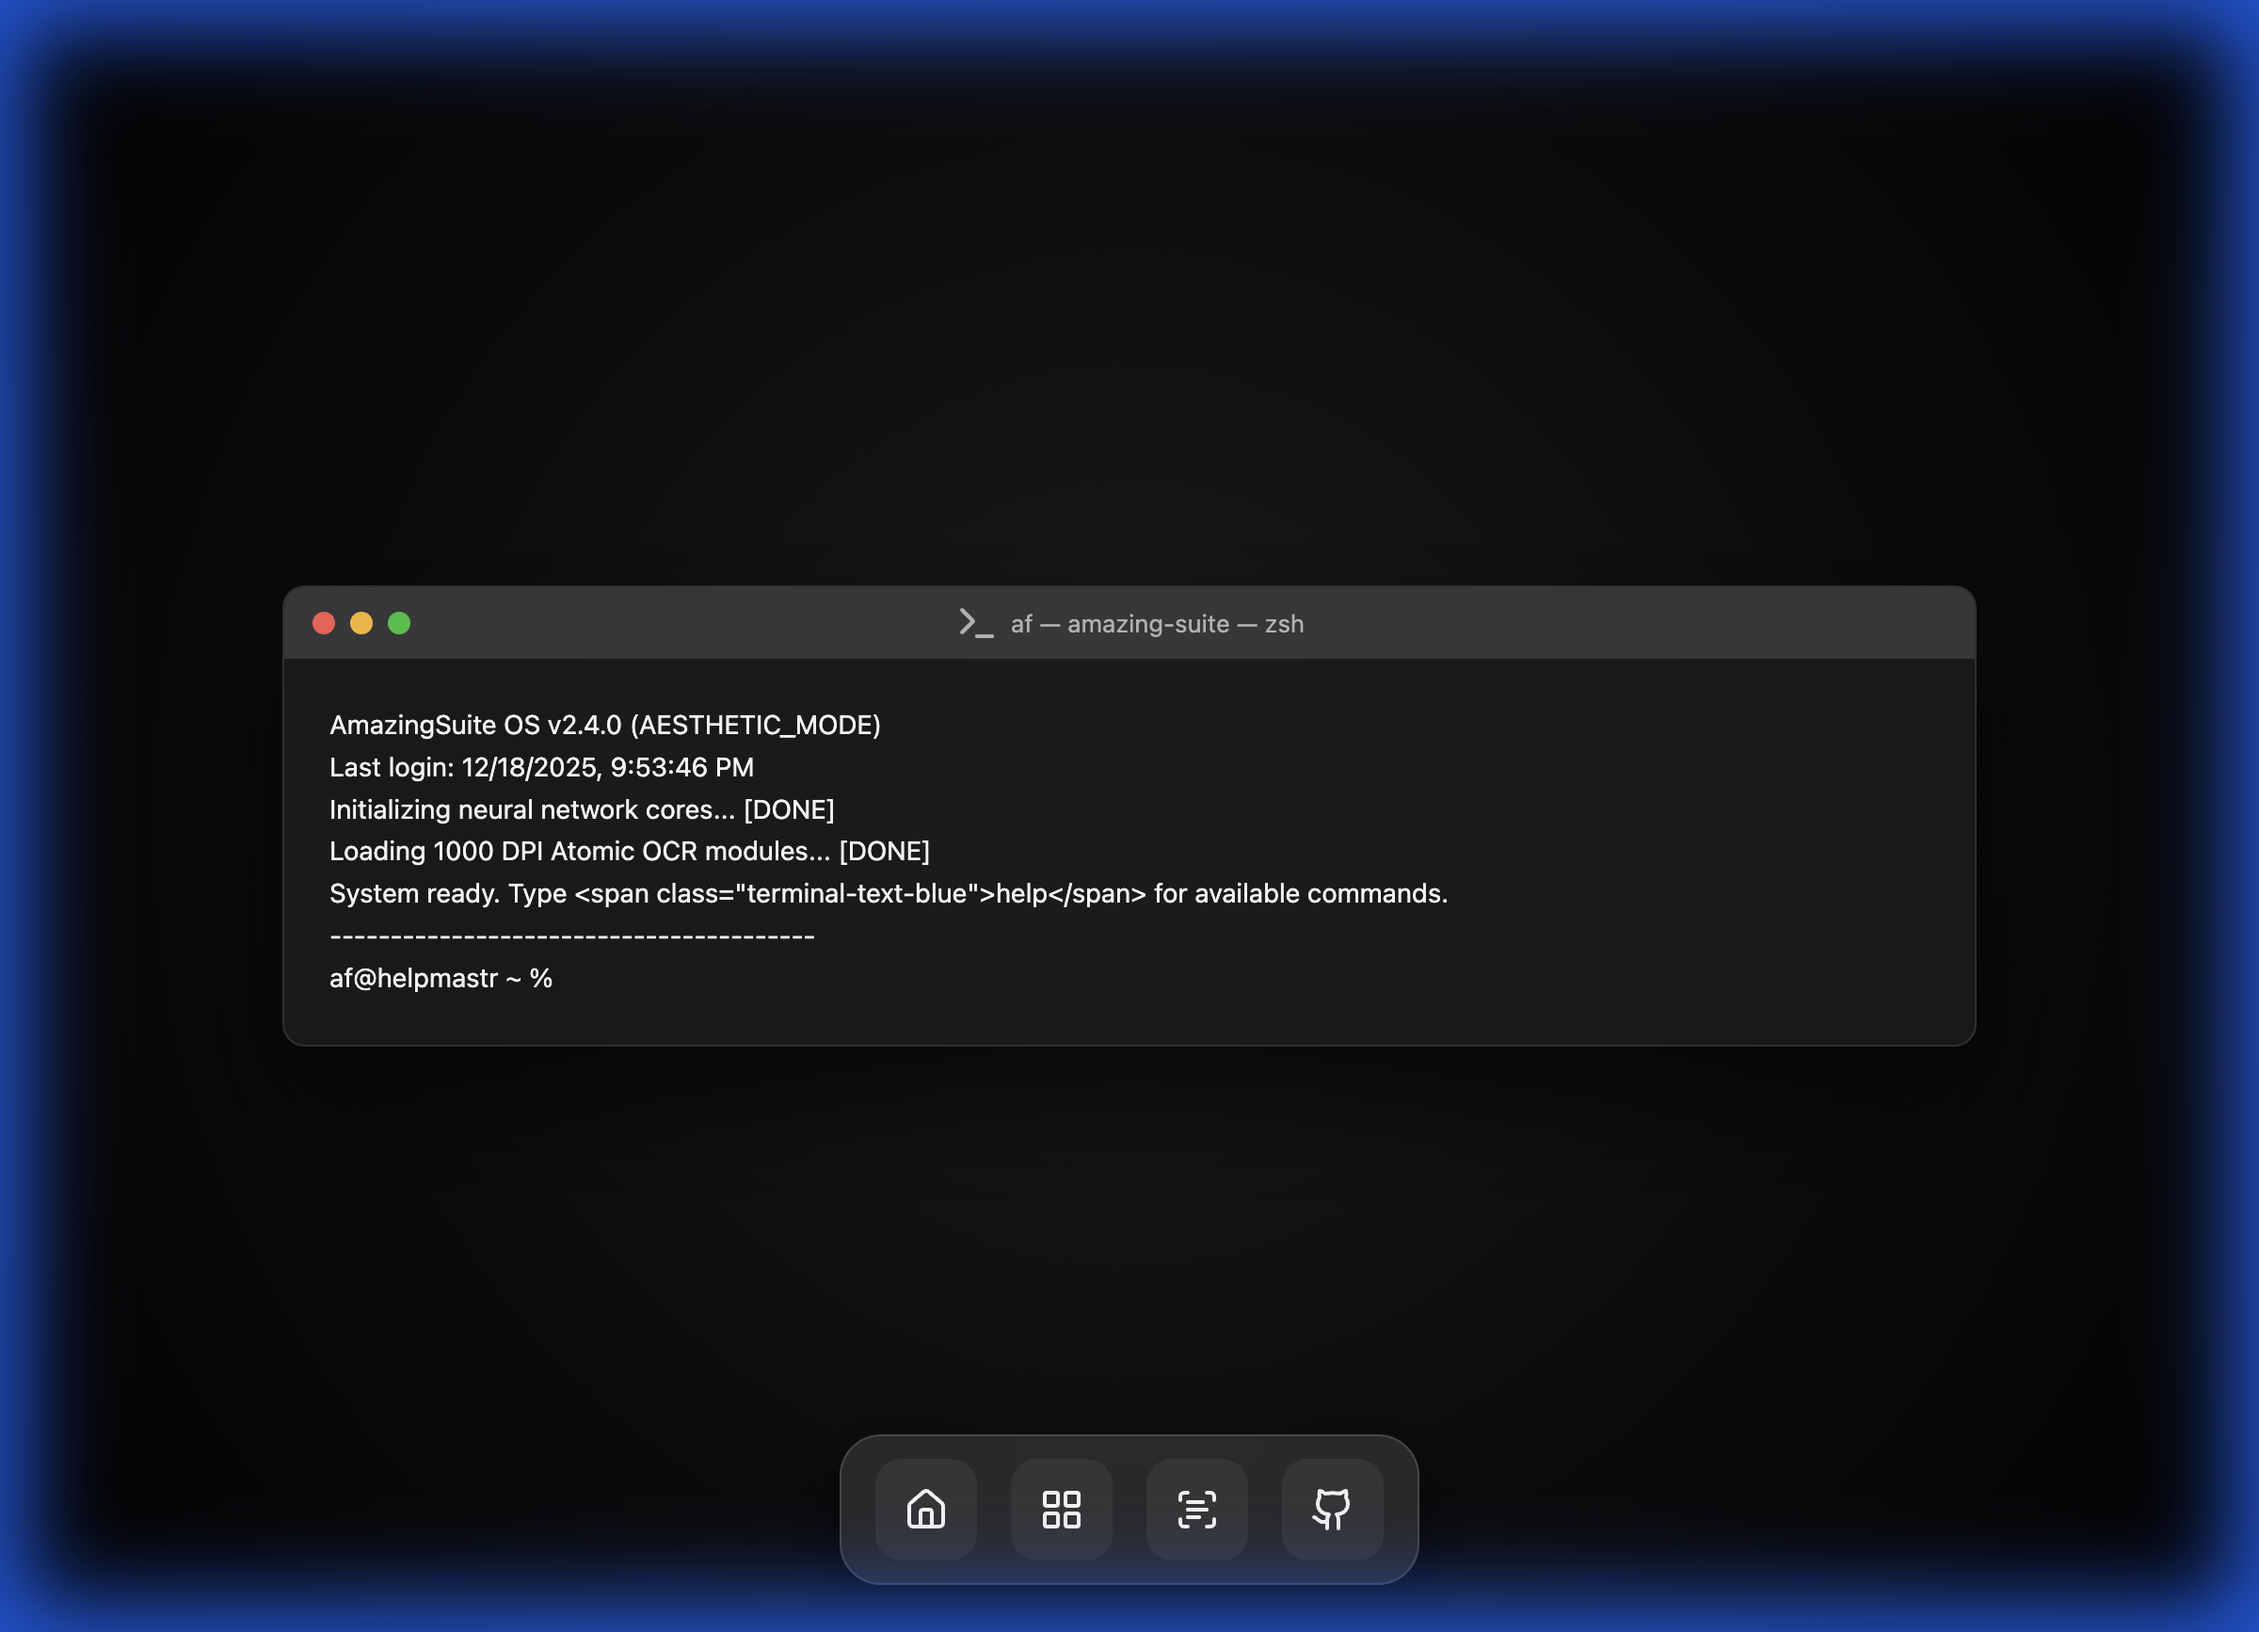
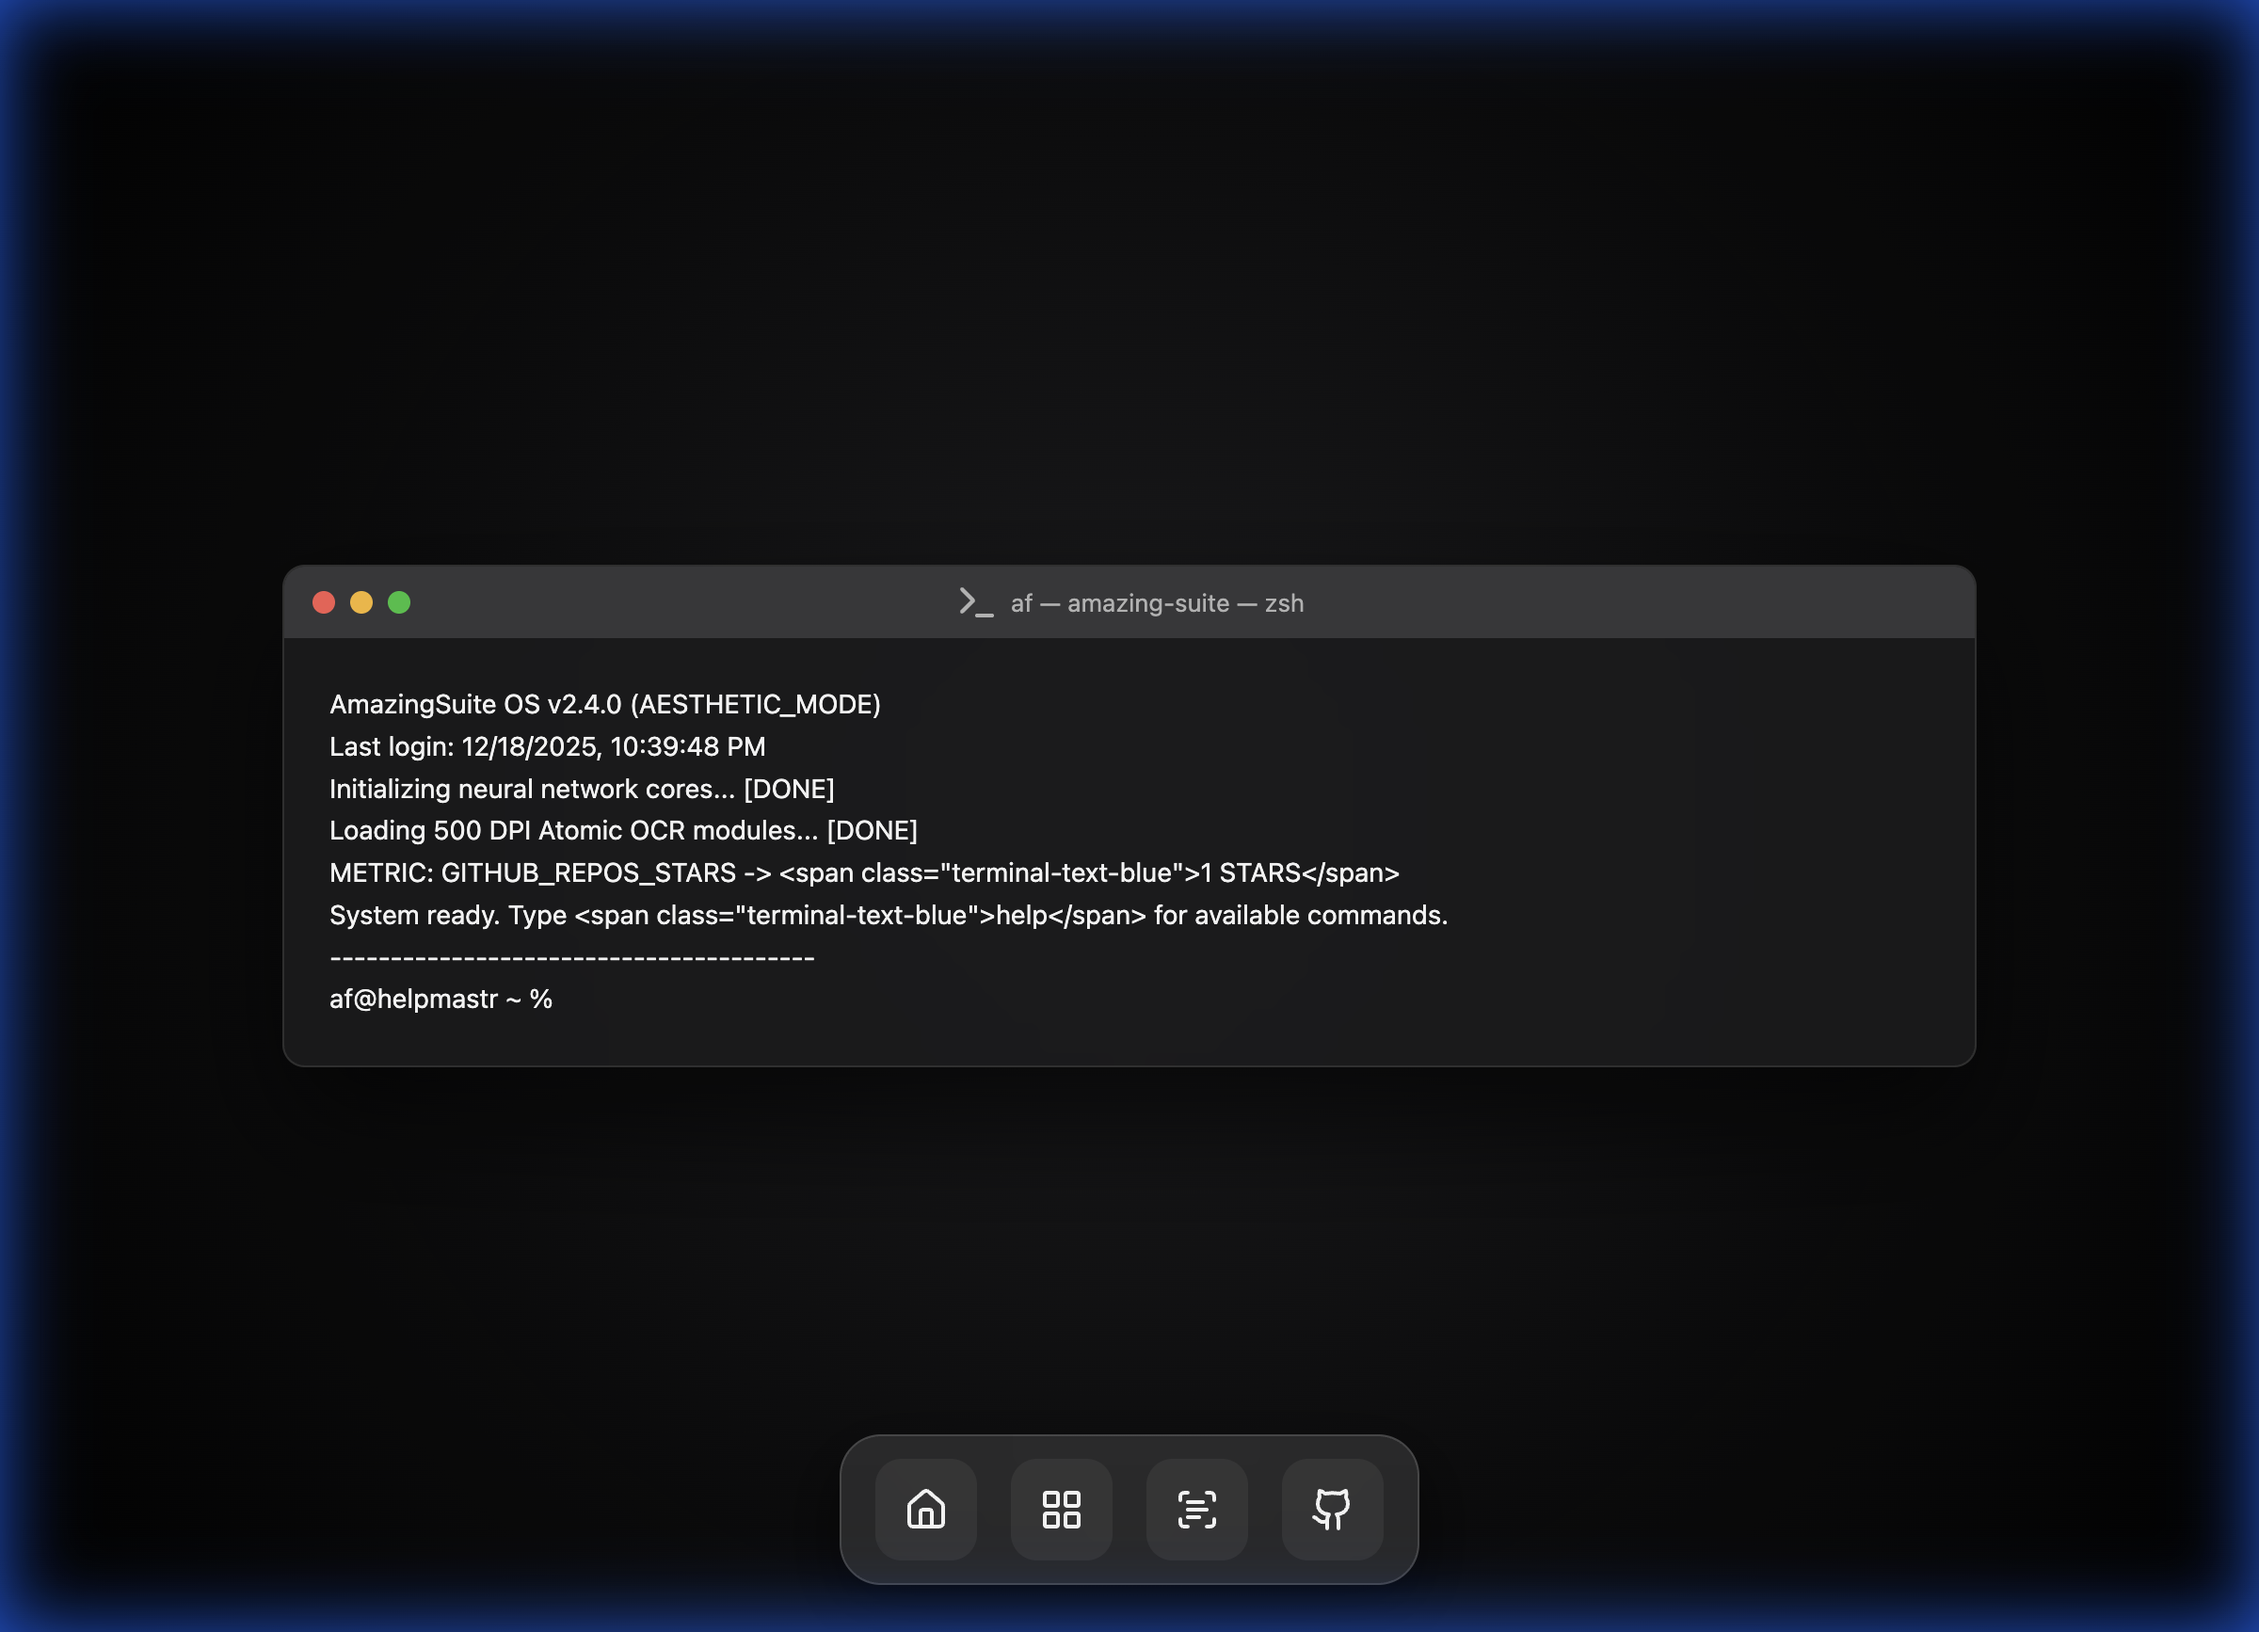
docs: complete README overhaul with fresh screenshots and feature highlights

Changed region(s): [[0.0, 0.0, 1.0, 1.0], [0.125, 0.3426, 0.875, 0.6228]]

diff --git a/README.md b/README.md
@@ -1,102 +1,98 @@
-# AmazingSuite - OCR & Converter Engine
+# ⚡ AmazingSuite - The Ultimate Terminal Productivity OS
 
-> **Terminal-Themed Productivity Suite** for high-efficiency document processing.
+> **A premium, high-performance toolkit** for OCR, Universal File Conversion, and Developer Utilities. Built with a stunning macOS terminal aesthetic and zero-latency client-side processing.
 
-![Status](https://img.shields.io/badge/Status-Active-success?style=for-the-badge) ![Version](https://img.shields.io/badge/Version-2.0.0-blue?style=for-the-badge)
-
-**AmazingSuite** is a web-based toolkit designed with a premium **hacker/terminal aesthetic**. It provides local-first tools for OCR, file conversion, and document management without needing a backend.
+![Status](https://img.shields.io/badge/Status-Active-success?style=for-the-badge) ![Version](https://img.shields.io/badge/Version-3.1.2-blue?style=for-the-badge) ![License](https://img.shields.io/badge/License-MIT-orange?style=for-the-badge)
 
 ---
 
-## 🖥 Screenshots
+## 🖥 System Preview
 
-| Command Center | Converter Hub |
+| Command Center (v2.4) | Master Hub |
 |:---:|:---:|
 | ![Index](screenshot_index.png) | ![Hub](screenshot_hub.png) |
 
-| Universal Converter | OCR Engine |
+| Universal Converter (v3.1) | Developer Terminal |
 |:---:|:---:|
-| ![Converter](screenshot_converter.png) | ![OCR](screenshot_ocr.png) |
+| ![Converter](screenshot_converter.png) | ![Dev Tools](screenshot_dev.png) |
+
+| OCR Engine (500 DPI) |
+|:---:|
+| ![OCR](screenshot_ocr.png) |
 
 ---
 
-## 🚀 Features
+## 🚀 Core Modules
 
-### Universal Converter v2
-A step-by-step conversion engine supporting **cross-format conversions**:
+### 1. Universal Converter v3.1 (Anything to Anything)
+The most powerful client-side converter. No servers. No data tracking. Pure logic.
+- **Documents**: Convert PDF to **DOCX (Word)**, TXT, or High-Res Images.
+- **Images**: Seamlessly swap between **WebP**, PNG, JPG, BMP, and PDF.
+- **Smart Extraction**: Features a hybrid engine that extracts native PDF text layers or performs OCR when needed.
+- **Batch Processing**: Multi-page conversions are automatically packaged into high-speed ZIP archives.
 
-1. **Select Input Type** — Documents, Images, Video, or Audio
-2. **Upload File** — Drag & drop or browse
-3. **Choose Output Format** — Any format (PDF→PNG, MP4→MP3, etc.)
-4. **Apply OCR** — Optional text extraction on output
-5. **Download** — Get your converted file
+### 2. Atomic OCR Engine
+Optimized for maximum accuracy and speed with three distinct performance profiles:
+- **🏎 Super Fast**: Low resolution for instant previews.
+- **⚖ Balanced**: Standard quality for clean documents.
+- **🎯 500 DPI Ultra**: Maximum precision for small text and handwriting.
+- **Output**: Generates searchable PDFs and raw text layers in 50+ languages.
 
-**Supported Formats:**
-- **Documents**: PDF, DOCX, TXT, RTF, ODT, HTML
-- **Images**: JPG, PNG, WebP, GIF, TIFF, BMP, HEIC
-- **Video**: MP4, MOV, AVI, MKV, WebM
-- **Audio**: MP3, WAV, AAC, FLAC, OGG, M4A
-
----
-
-### Atomic OCR Engine
-High-fidelity text extraction with performance profiles:
-
-- **Super Fast** — Optimized for speed
-- **Balanced** — Standard quality
-- **500 DPI** — Maximum accuracy for small text
-
-**Features:**
-- Multi-language support (English, Arabic, French, German, Spanish, Japanese)
-- Automatic large file optimization (prevents browser crashes)
-- Searchable PDF output
-- Batch processing with ZIP export
+### 3. Developer Utilities Terminal
+A dedicated suite for modern developer workflows:
+- **JSON Master**: Pretty print, minify, and lint your JSON data instantly.
+- **Codec Hub**: Instant Base64 and URL encoding/decoding.
+- **Security Station**: Local-first SHA-256/MD5 generation and **JWT decoding**.
+- **Gen Utils**: Live Epoch time conversion and UUID v4 generation.
 
 ---
 
-### Terminal Aesthetic
-- **Matrix Green** typography & glowing CRT effects
-- **macOS-style** window chrome and dock
-- **Glassmorphism** frosted glass UI elements
-- **Responsive** design with smooth animations
+## ⌨ Power Commands
+Access AmazingSuite via the main terminal using these zsh-style commands:
+- `help` - Show all available modules.
+- `/hub` - Launch the Master Converter Hub.
+- `/ocr` - Boot the AmazingOCR Neural Engine.
+- `/dev` - Open the Developer Utilities Terminal.
+- `/clear` - Wipe the terminal buffer.
 
 ---
 
-## ⚙ Installation
+## 🛠 Technology Stack
+- **Frontend**: Vanilla JS (ES6+), CSS Grid/Flexbox
+- **Processing**: 
+    - `Tesseract.js` (OCR Engine)
+    - `pdf-lib` (PDF Creation/Modification)
+    - `pdf.js` (PDF Rendering & Extraction)
+    - `docx.js` (Word Document Generation)
+    - `JSZip` (Batch Packaging)
+    - `Crypto-JS` (Hashing & Security)
+- **Aesthetics**: Lucide Icons, JetBrains Mono, Frosted Glass (CSS Filters)
 
-No build required! Simply clone and open in your browser:
+---
+
+## ⚙ Installation & Usage
+
+AmazingSuite is entirely static and requires no server. 
 
 ```bash
+# Clone the repository
 git clone https://github.com/helpmastr/amazingocr.git
+
+# Navigate and open
 cd amazingocr
 open index.html
 ```
 
 ---
 
-## 📁 Project Structure
-
-```
-├── index.html          # Command Center (home)
-├── hub.html            # Converter Hub
-├── universal-converter.html  # Step-by-step converter
-├── engine.html         # OCR Engine
-├── converter.html      # Image to PDF converter
-├── app.js              # OCR processing logic
-├── terminal.css        # Terminal theme styles
-└── style.css           # Base styles
-```
-
----
-
-## 🤝 Contributing
-
+## 🤝 Contributing & Community
+We welcome contributions! Whether it's adding new conversion modules or refining the terminal theme:
 1. Fork the Project
 2. Create your Feature Branch (`git checkout -b feature/AmazingFeature`)
-3. Commit your Changes (`git commit -m 'Add some AmazingFeature'`)
+3. Commit your Changes (`git commit -m 'feat: add amazing utility'`)
 4. Push to the Branch (`git push origin feature/AmazingFeature`)
 5. Open a Pull Request
 
 ---
 
-> Built with ❤ using Vanilla JS, PDF-Lib, Tesseract.js, and pdf.js
+> Created with passion by [helpmastr](https://github.com/helpmastr). If you find this useful, **leave a ⭐ on GitHub!**
